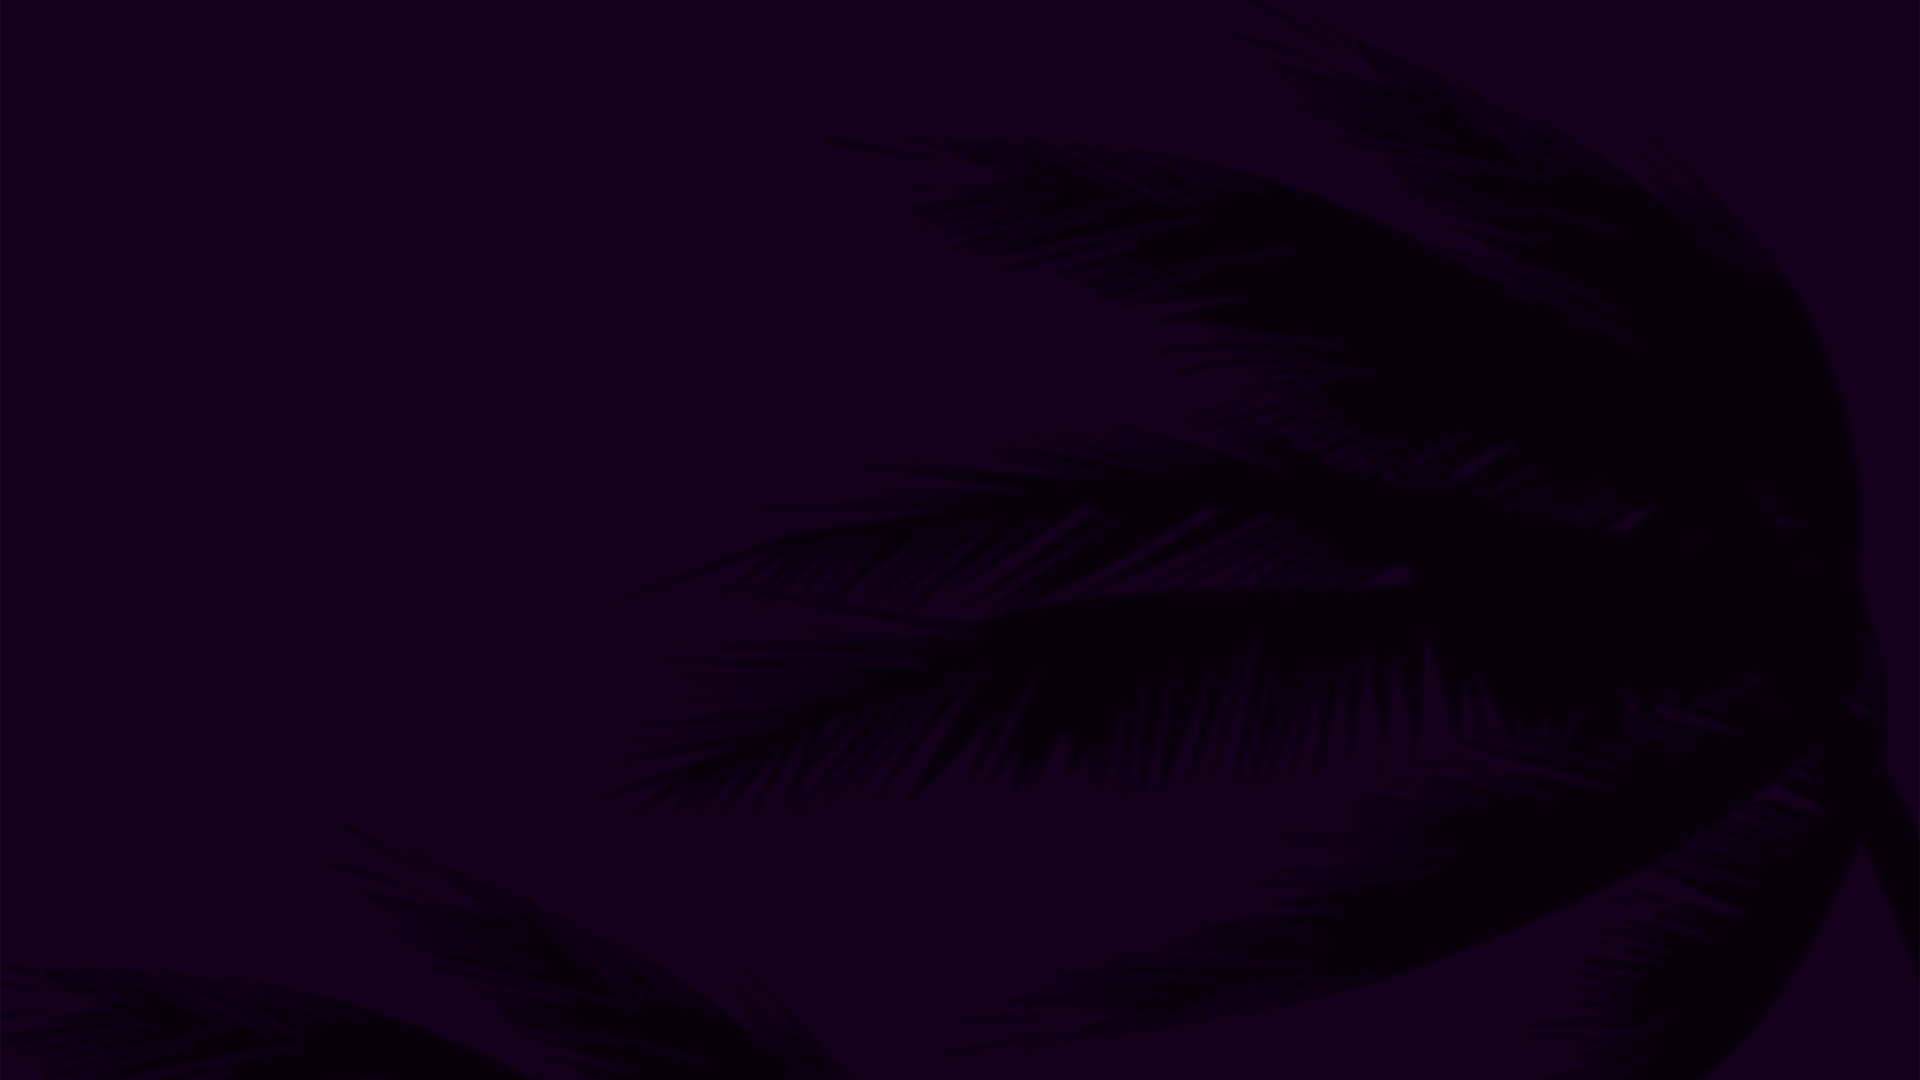
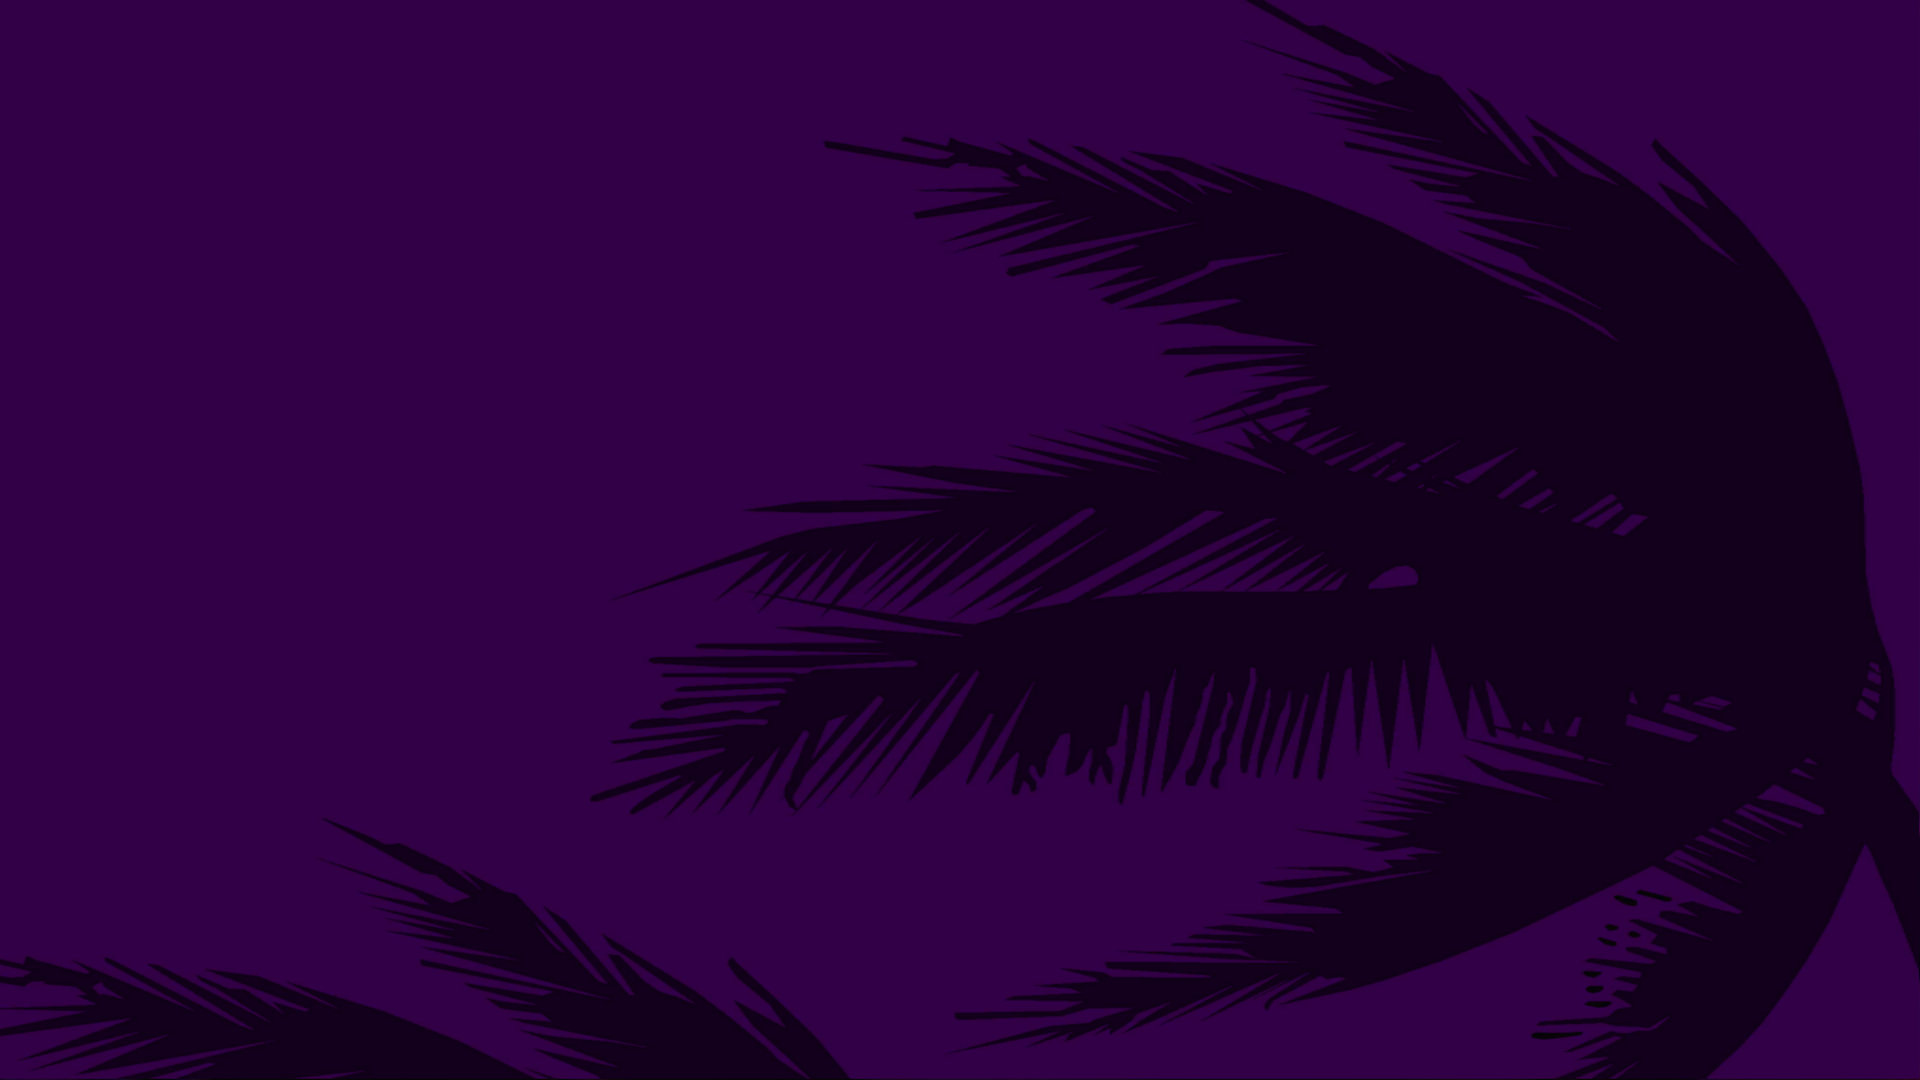
The menu wears the game's own backdrop, and LOADING moves left
The generated palm-frond backdrop is gone. assets/vcs/background.png is
now the game's OWN menu background - the texture behind hash
00000000e98726e85a89c192, which the pack replaces with a much higher
quality upscale - so this fork's menu and the game's own front end are
lit by the same art instead of by an imitation of it. Both the pause
menu and the loading curtain read it through the one Background()
accessor, so they moved together.

Two things had to happen to it first, and the second is only obvious
once the first is done.

It carries a 352-row band of solid black across the bottom, which is
the PSP framebuffer padding: the front end lays itself out in 480x272
and only about 330 rows are ever displayed, so the bottom sixth of that
texture is a region the game never draws into. Cropped before use.
Left in, DrawCover's centre-crop would have pulled its window down into
the black and clipped the fronds off the top instead.

Then squashed to 1920x1080, the size the old one was. The remaining
content is 2048x1696, and DrawCover fits by cropping rather than by
letterboxing - so shipping it at its own aspect meant the window chose
which slice to show, and on 16:9 that threw away a quarter of the height
it had just been cropped to keep. At the original's exact size there is
nothing left to crop and the whole image is on screen. It is a stretch
from 1.21 to 1.78 and the fronds do not care.

The curtain's word moves to the bottom LEFT, on bounds.x + kTitleLeft
[…]

diff --git a/UI/VCSMenuScreen.cpp b/UI/VCSMenuScreen.cpp
@@ -1493,9 +1493,9 @@ void DrawVCSBootCurtain(UIContext &dc, float alpha, const char *word) {
 		DrawCover(dc, backdrop, bounds, alpha);
 	}
 
-	// The word, bottom right, where this game and every game like it puts it. The dots are not
-	// decoration: a still screen with a word on it and a ten-second wait behind it is a screen
-	// that looks like a hang.
+	// The word, bottom left, under the same inset every other left-aligned thing in this menu
+	// uses. The dots are not decoration: a still screen with a word on it and a ten-second wait
+	// behind it is a screen that looks like a hang.
 	// No word at all for a menu transition, which is what a null one means. There is nothing to
 	// tell the player there: the menu they were looking at is still on screen, and the page they
 	// asked for is a moment away. "LOADING" over that would be describing machinery.
@@ -1504,8 +1504,8 @@ void DrawVCSBootCurtain(UIContext &dc, float alpha, const char *word) {
 		char text[24];
 		snprintf(text, sizeof(text), "%s%.*s", word, dots, "...");
 		dc.SetFontStyle(kCurtainFont);
-		dc.DrawTextShadow(text, bounds.x2() - kTitleLeft, bounds.y2() - kTitleTop,
-			colorAlpha(kItemColor, alpha), ALIGN_RIGHT | ALIGN_BOTTOM);
+		dc.DrawTextShadow(text, bounds.x + kTitleLeft, bounds.y2() - kTitleTop,
+			colorAlpha(kItemColor, alpha), ALIGN_LEFT | ALIGN_BOTTOM);
 	}
 	dc.Flush();
 }
